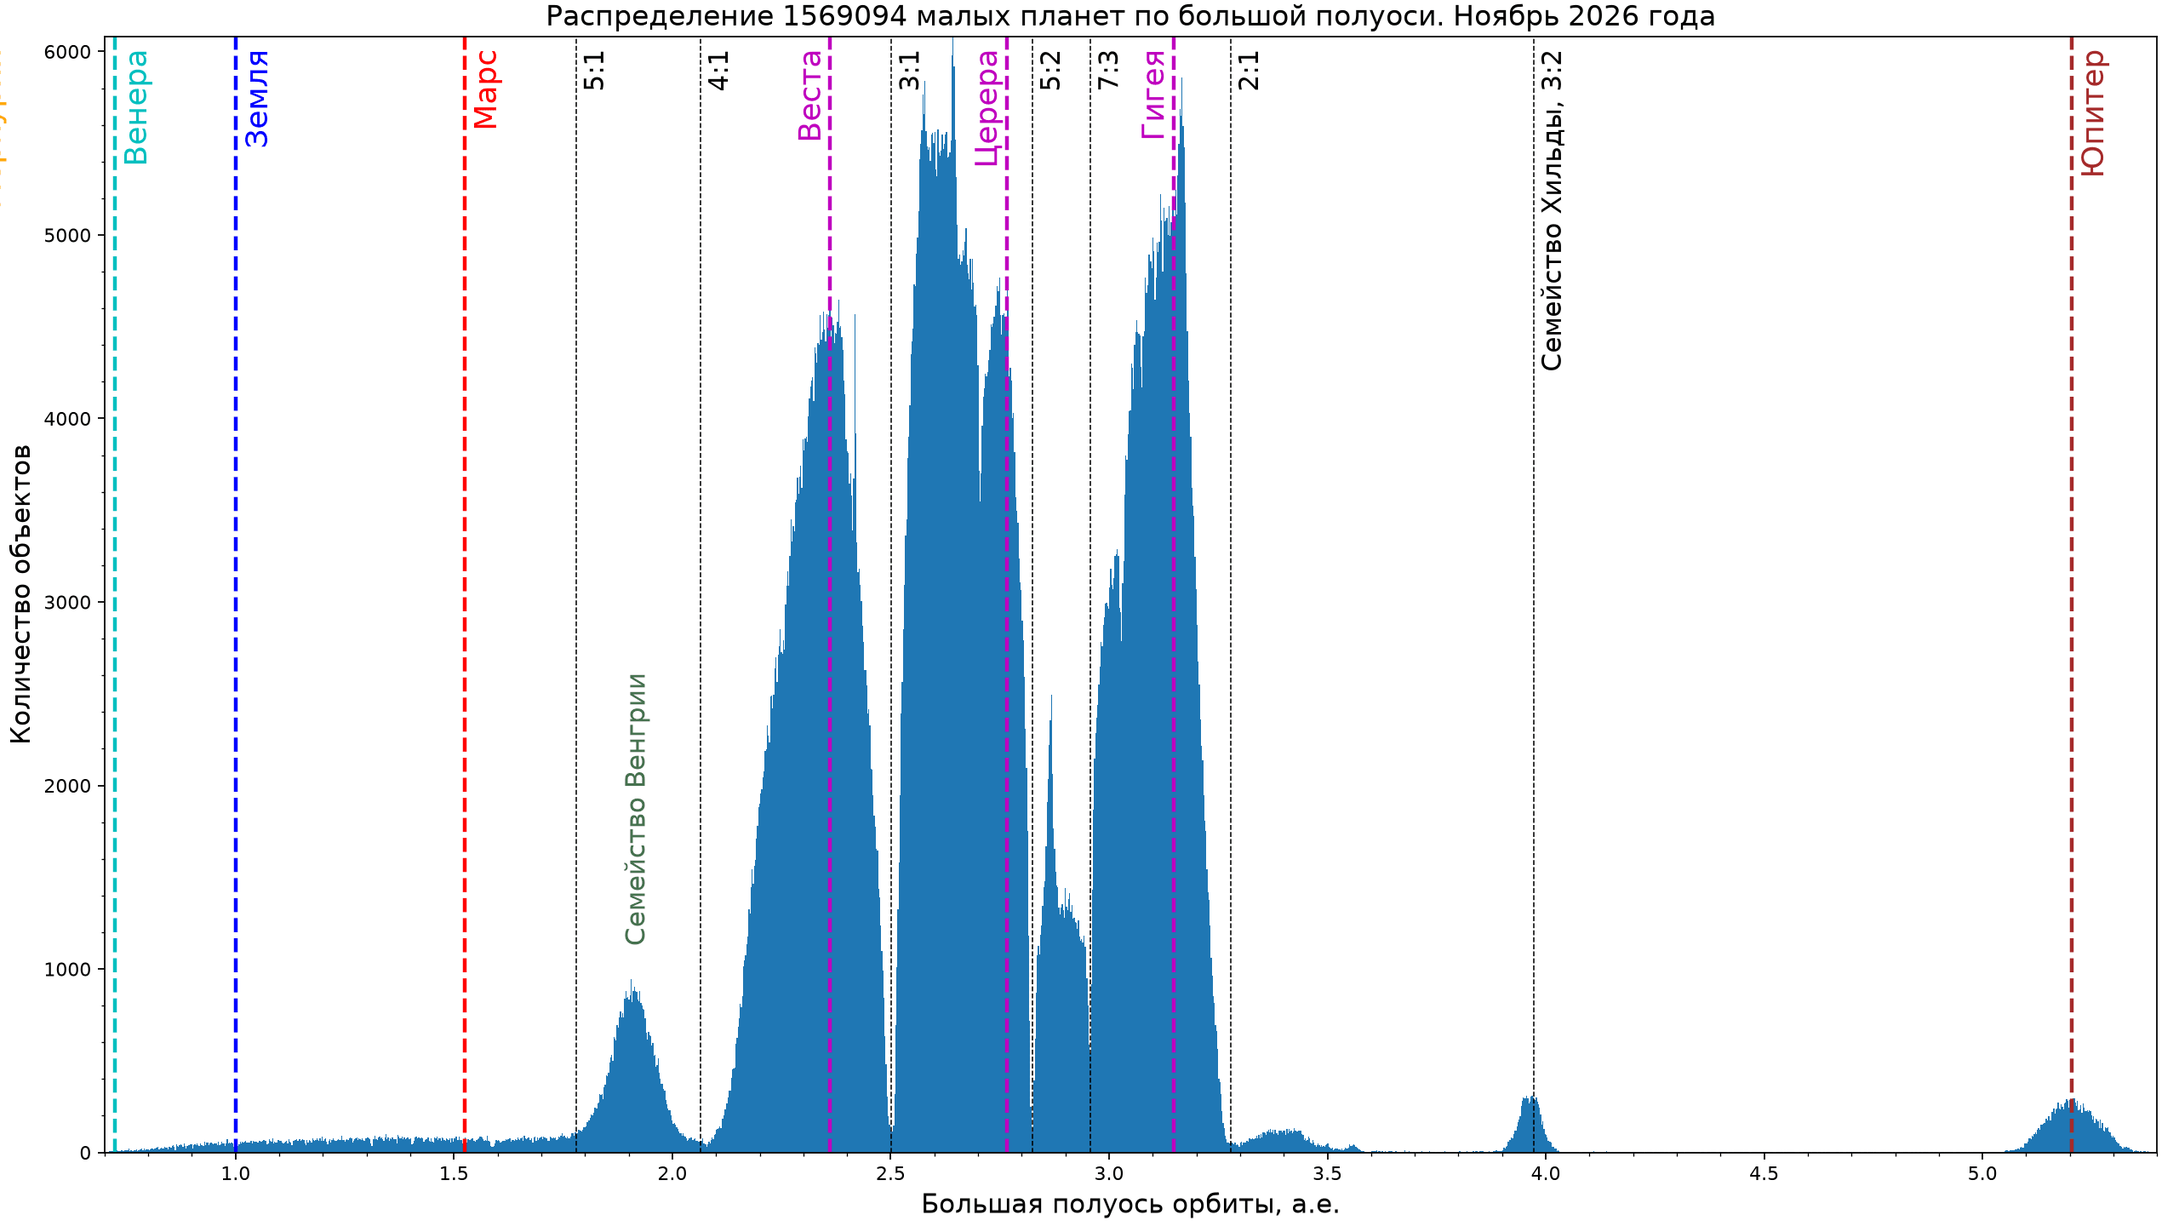
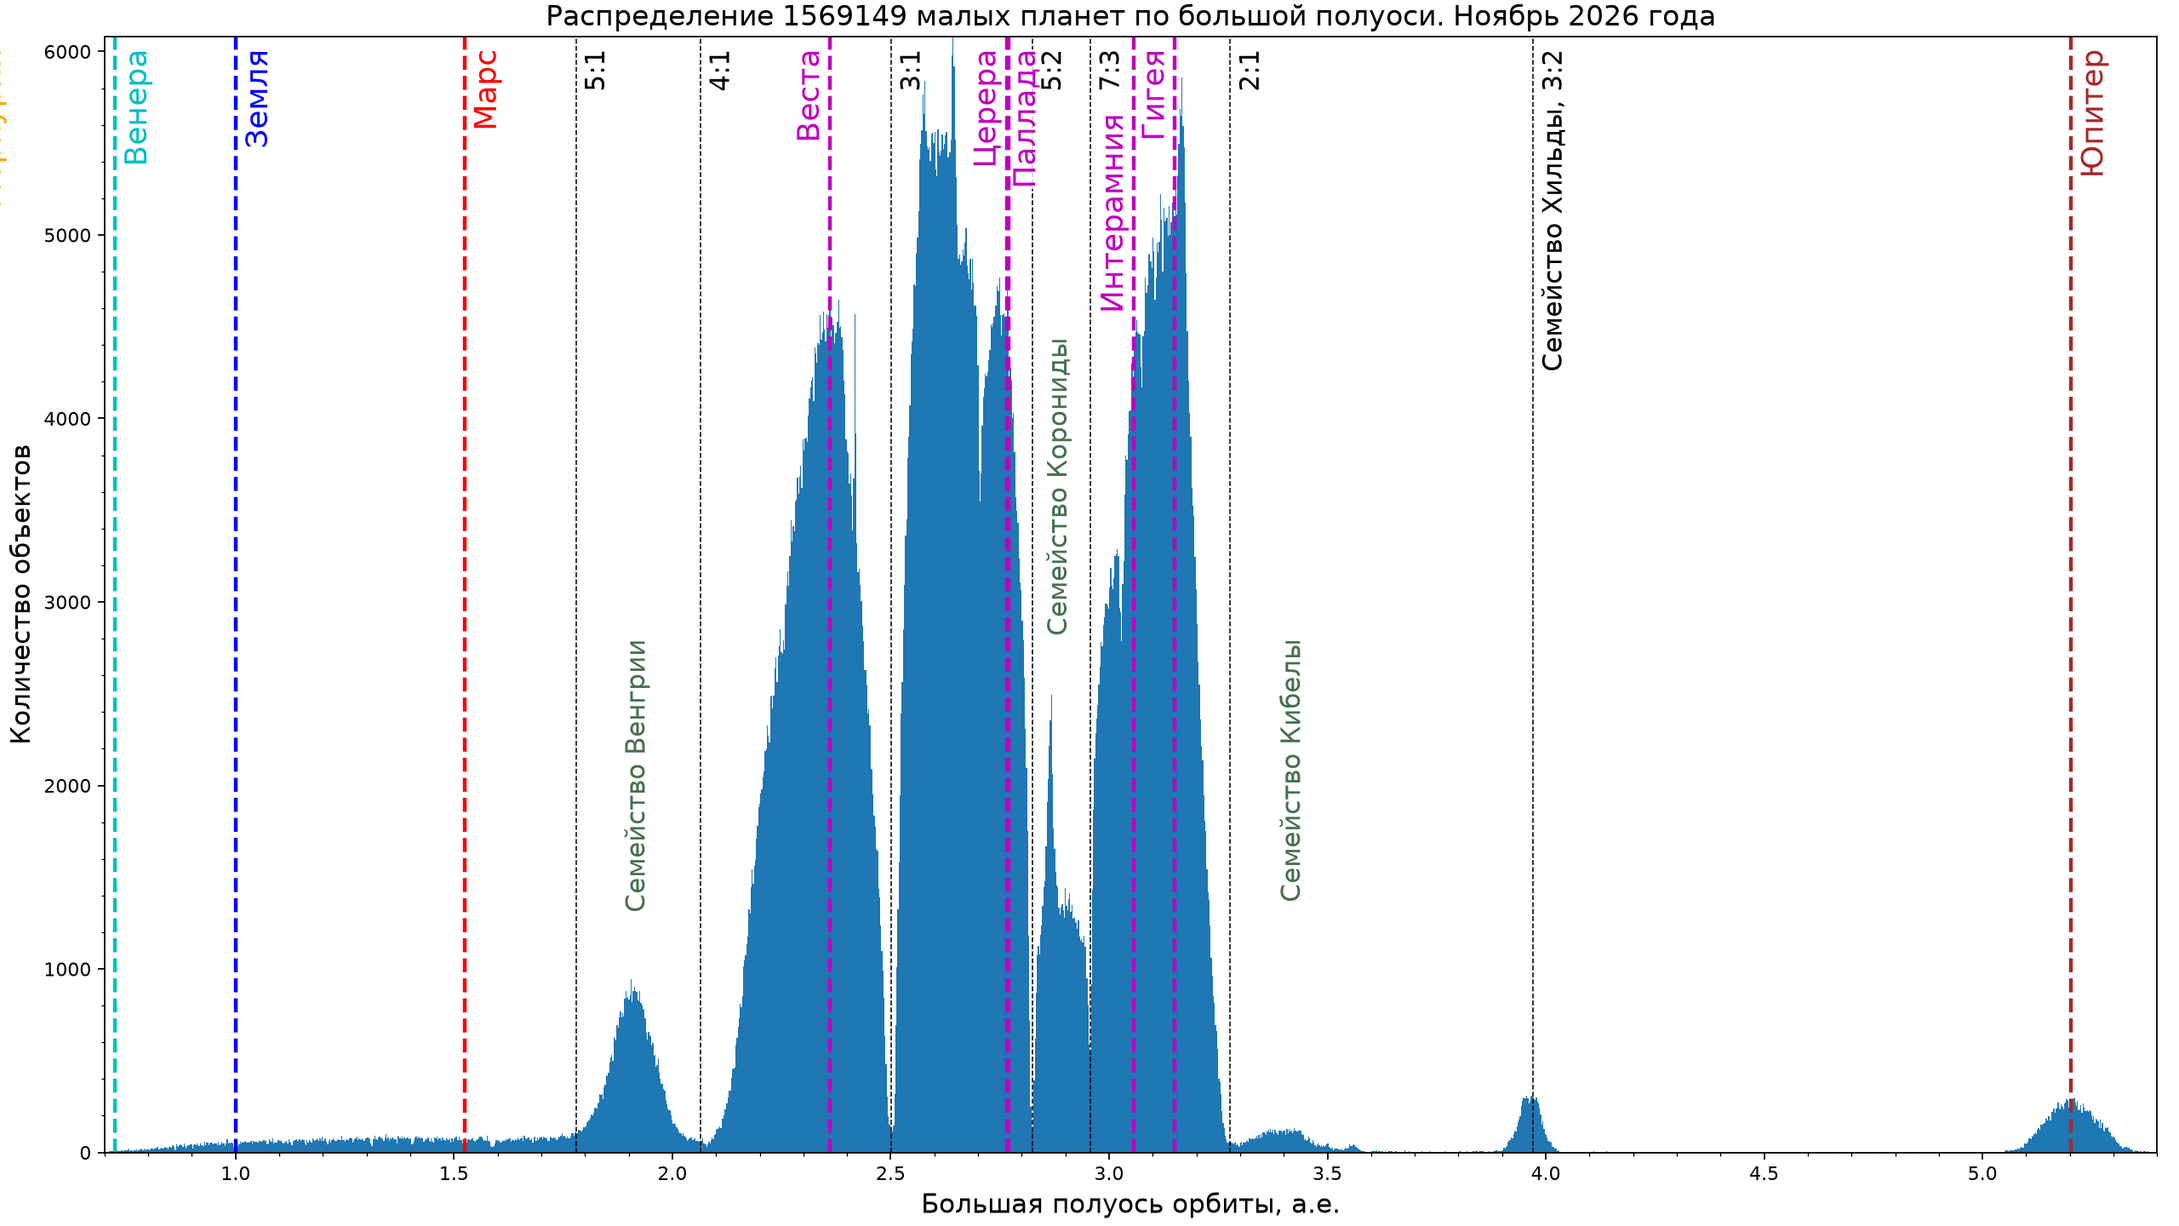
update scripts & plots

diff --git a/src/astrodata/solarsystem/plot_sso_supply.py b/src/astrodata/solarsystem/plot_sso_supply.py
@@ -1,4 +1,16 @@
-"""Plot parameters of Solar system bodies"""
+"""Plot parameters of Solar system bodies.
+Data source for planets:
+Keplerian elements, with respect to the mean ecliptic and equinox of J2000,
+valid for the time-interval 1800 AD - 2050 AD:
+https://ssd.jpl.nasa.gov/planets/approx_pos.html
+NOTE on Neptune resonance factors:
+Instead of a single heliocentric semi-major axis (30.07 au), individual effective
+axes (30.125 to 30.210 au) are used based on analytical celestial mechanics.
+This accounts for the barycentric shift of the Solar System (caused by Jupiter/Saturn
+pulling the Sun) and phase space asymmetry of stable libration zones.
+At extreme distances (2:5 resonance), fast barycentric perturbations average out,
+returning the effective axis back to the pure heliocentric value of 30.07 au.
+"""
 
 from dataclasses import dataclass
 from typing import Final
@@ -7,85 +19,143 @@ import matplotlib.pyplot as plt
 
 Y_OFFSET_MULTIPLIER = 0.011
 
-@dataclass(frozen=True, slots=True)
+@dataclass(slots=True)  # frozen=True,
 class BodyParams:
     name: str
     runame: str
-    a: float
-    e: float
-    i: float
+    a: float = 0.0
+    e: float = 0.0
+    i: float = 0.0
     color: str = "grey"
     line_style: str = "--"
     line_width: float = 2
     is_planet: bool = True
+    mpc_id: str = ""
 
 PL: Final[dict[str, BodyParams]] = {
-    "me": BodyParams("Mercury", "Меркурий", 0.387, 0.206, 7, color="orange"),
-    "ve": BodyParams("Venus", "Венера", 0.723, 0.007, 3.4, color="c"),
-    "ea": BodyParams("Earth", "Земля", 1.0, 0.016, 0, color="b"),
-    "ma": BodyParams("Mars", "Марс", 1.524, 0.093, 1.85, color="r"),
-    "ju": BodyParams("Jupiter", "Юпитер", 5.204, 0.049, 1.3, color="brown"),
-    "sa": BodyParams("Saturn", "Сатурн", 9.583, 0.057, 2.49, color="y"),
-    "ur": BodyParams("Uranus", "Уран", 19.219, 0.046, 0.77, color="c"),
-    "ne": BodyParams("Neptune", "Нептун", 30.07, 0.01, 1.77, color="#00b"),
-    "ce": BodyParams("Ceres", "Церера", 2.7656, 0.07958, 10.5879, color="m"),
-    "ves": BodyParams("Vesta", "Веста", 2.3614, 0.0901, 7.14395, color="m", is_planet=False),
-    "hy": BodyParams("Hygiea", "Гигея", 3.14759, 0.108224, 3.83294, color="m", is_planet=False),
-    "pl": BodyParams("Pluto", "Плутон, 2:3", 39.33986, 0.24707, 17.1758, color="#808"),
-    "ha": BodyParams("Haumea", "Хаумеа", 43.006, 0.1958, 28.208, color="#808"),
-    "mk": BodyParams("Makemake", "Макемаке", 45.4497, 0.1619, 29.0339, color="#808"),
-    "er": BodyParams("Eris", "Эрида", 67.997, 0.43697, 43.869, color="#808"),
-    "go": BodyParams("Gonggong", "Гун-гун", 66.8951, 0.5032, 30.8664, line_width=1.5, is_planet=False),
-    "qu": BodyParams("Quaoar", "Квавар", 43.1629, 0.03664, 7.991, line_width=1.5, is_planet=False),
-    "or": BodyParams("Orcus", "Орк", 39.2892, 0.22314, 20.5555, line_width=1.5, is_planet=False),
-    "sal": BodyParams("Salacia", "Салация", 42.1154, 0.1034, 23.9271, line_width=1.5, is_planet=False),
-    "se": BodyParams("Sedna", "Седна", 506.0, 0.85, 11.93, line_width=1.5, is_planet=False),
+    "me": BodyParams("Mercury", "Меркурий", a=0.3871, e=0.2056, i=7.0050, color="orange"),
+    "ve": BodyParams("Venus", "Венера", a=0.7233, e=0.0068, i=3.3947, color="c"),
+    "ea": BodyParams("Earth", "Земля", a=1.00, e=0.0167, i=-0.000015, color="b"),
+    "ma": BodyParams("Mars", "Марс", a=1.5237, e=0.0934, i=1.8497, color="r"),
+    "ju": BodyParams("Jupiter", "Юпитер", a=5.2029, e=0.0484, i=1.3044, color="brown"),
+    "sa": BodyParams("Saturn", "Сатурн", a=9.5367, e=0.0539, i=2.4860, color="y"),
+    "ur": BodyParams("Uranus", "Уран", a=19.1892, e=0.0473, i=0.7726, color="c"),
+    "ne": BodyParams("Neptune", "Нептун", a=30.0699, e=0.0086, i=1.7700, color="#00b"),
+    "ce": BodyParams("Ceres", "Церера", mpc_id="(1) Ceres", color="m"),
+    "ves": BodyParams("Vesta", "Веста", mpc_id="(4) Vesta", color="m", is_planet=False),
+    "pa": BodyParams("Pallas", "Паллада", mpc_id="(2) Pallas", color="m", is_planet=False),
+    "hy": BodyParams("Hygiea", "Гигея", mpc_id="(10) Hygiea", color="m", is_planet=False),
+    "in": BodyParams("Interamnia", "Интерамния", mpc_id="(704) Interamnia", color="m", is_planet=False),
+    "pl": BodyParams("Pluto", "Плутон", a=39.4817, e=0.2488, i=17.1418, mpc_id="(134340) Pluto", color="#808"),
+    "ix": BodyParams("Ixion", "Иксион", mpc_id="(28978) Ixion", line_width=1.5, is_planet=False),
+    "or": BodyParams("Orcus", "Орк", mpc_id="(90482) Orcus", line_width=1.5, is_planet=False),
+    "ac": BodyParams("Achlys", "Ахлис", mpc_id="(208996) Achlys", line_width=1.5, is_planet=False),
+    "man": BodyParams("Máni", "Мани", mpc_id="(307261) Mani", line_width=1.5, is_planet=False),
+    "sal": BodyParams("Salacia", "Салация", mpc_id="(120347) Salacia", line_width=1.5, is_planet=False),
+    "ha": BodyParams("Haumea", "Хаумеа", mpc_id="(136108) Haumea", color="#808"),
+    "qu": BodyParams("Quaoar", "Квавар", mpc_id="(50000) Quaoar", line_width=1.5, is_planet=False),
+    "mk": BodyParams("Makemake", "Макемаке", mpc_id="(136472) Makemake", color="#808"),
+    "va": BodyParams("Varda", "Варда", mpc_id="(174567) Varda", line_width=1.5, is_planet=False),
+    "ay": BodyParams("Aya", "Айа", mpc_id="(55565) Aya", line_width=1.5, is_planet=False),
+    "ch": BodyParams("Chiminigagua", "Чиминигагуа", mpc_id="(532037) Chiminigagua", line_width=1.5, is_planet=False),
+    "go": BodyParams("Gonggong", "Гун-гун", mpc_id="(225088) Gonggong", line_width=1.5, is_planet=False),
+    "er": BodyParams("Eris", "Эрида", mpc_id="(136199) Eris", color="#808"),
+    "se": BodyParams("Sedna", "Седна", mpc_id="(90377) Sedna", line_width=1.5, is_planet=False),
 }
 
 
-def plot_vert_pla(b1: float, b2: float, show_inner_asteroids: bool = True) -> None:
+def plot_vert_pla(ax: plt.Axes, b1: float, b2: float, show_inner_asteroids: bool = True) -> None:
     """Plots vertical lines and text descriptions for planets and large SSOs."""
     y_text_top = b2 - (b2 * Y_OFFSET_MULTIPLIER)
 
     for key, body in PL.items():
-        if key in {"ce", "ves", "hy"} and not show_inner_asteroids:
+        y_text_offset = 0
+        if key in {"ce", "ves", "pa", "hy", "in"} and not show_inner_asteroids:
             continue
 
-        plt.plot([body.a, body.a], [b1, b2], c=body.color, ls=body.line_style, lw=body.line_width)
+        ax.plot([body.a, body.a], [b1, b2], c=body.color, ls=body.line_style, lw=body.line_width)
 
         x_offset = 0.02
-        if key in {"go", "qu", "or", "sal", "se"}:
-            x_offset = -0.72
-        elif key in {"ves", "ce", "hy"}:
-            x_offset = -0.075
+        if key in {"go", "qu", "or", "sal", "se", "ay", "ch", "man", "va", "ac"}:
+            x_offset = -0.65
+        elif key in {"ves", "ce", "pa", "hy", "in"}:
+            x_offset = -0.078
         elif body.is_planet and body.a < 10:
             x_offset = 0.02
         elif (body.is_planet and body.a > 20) or not body.is_planet:
             x_offset = 0.15
 
-        text_color = "black" if body.color == "#808" else body.color
-
-        plt.text(
-            body.a + x_offset, y_text_top, body.runame,
-            c=text_color, rotation="vertical", va="top", fontsize=15 if body.line_width == 1 else 16
-        )
+        if body.name not in ("Ixion", "Achlys", ):
+            if body.name == "Pallas":
+                x_offset = 0.009
+            elif body.name == "Interamnia":
+                y_text_offset = 350
+            elif body.name == "Pluto":
+                y_text_offset = 4.25
+            ax.text(
+                body.a + x_offset,
+                y_text_top - y_text_offset,
+                body.runame,
+                c=body.color,
+                rotation="vertical",
+                va="top",
+                fontsize=15 if body.line_width == 1 else 16,
+                bbox={
+                    "facecolor": "white",
+                    "alpha": 0.8,
+                    "edgecolor": "none",
+                    "pad": 0.0
+                }
+            )
+    ax.text(
+        PL["ix"].a - 0.68, y_text_top - 13, PL["ix"].runame,
+        c=PL["ix"].color, rotation="vertical", va="top", fontsize=15 if PL["ix"].line_width == 1 else 16
+    )
+    ax.text(
+        PL["ac"].a + 0.05, y_text_top - 13, PL["ac"].runame,
+        c=PL["ac"].color, rotation="vertical", va="top", fontsize=15 if PL["ac"].line_width == 1 else 16
+    )
 
     if show_inner_asteroids:
-        plt.text(1.89, b2 * 0.43, "Семейство Венгрии", c="#45714E", rotation="vertical", va="top", fontsize=14)
+        ax.text(1.89, b2 * 0.46, "Семейство Венгрии", c="#45714E", rotation="vertical", va="top", fontsize=14)
+        ax.text(2.856, b2 * 0.73, "Семейство Корониды", c="#45714E", rotation="vertical", va="top", fontsize=14)
+        ax.text(3.39, b2 * 0.46, "Семейство Кибелы", c="#45714E", rotation="vertical", va="top", fontsize=14)
 
-def plot_vert_resonances(b1: float, b2: float, lw: float = 0.7, plot_tno: bool = False) -> None:
+
+def plot_vert_resonances(ax: plt.Axes, b1: float, b2: float, lw: float = 0.7, plot_tno: bool = False) -> None:
     """Plots Kirkwood gaps and planetary resonances."""
     y_text_top = b2 - (b2 * Y_OFFSET_MULTIPLIER)
 
-    resonances = [
-        (1.78, "5:1"), (2.065, "4:1"), (2.502, "3:1"),
-        (2.825, "5:2"), (2.958, "7:3"), (3.279, "2:1"),
-        (3.972, "Семейство Хильды, 3:2")
+    A_JUPITER: Final[float] = 5.202887
+    A_NEPTUNE: Final[float] = 30.069923
+    # A_NEPTUNE_EFF: Final[float] = 30.195
+
+    resonances_jupiter = [
+        (A_JUPITER * (5/1)**(-2/3), "5:1"),
+        (A_JUPITER * (4/1)**(-2/3), "4:1"),
+        (A_JUPITER * (3/1)**(-2/3), "3:1"),
+        (A_JUPITER * (5/2)**(-2/3), "5:2"),
+        (A_JUPITER * (7/3)**(-2/3), "7:3"),
+        (A_JUPITER * (2/1)**(-2/3), "2:1"),
+        (A_JUPITER * (3/2)**(-2/3), "Семейство Хильды, 3:2"),
     ]
+
+    # Индивидуальный учет либрации и барицентрического сдвига
+    # NOTE: Effective Neptune axes account for the barycentric shift of the Sun
+    # and phase space asymmetry of stable libration zones (Murray & Dermott, "SSD").
+    resonances_neptune = [
+        (30.125 * (3/4)**(-2/3), "3:4"),
+        (30.155 * (2/3)**(-2/3), "2:3"),  # 39.5142, 2:3 (Плутино)
+        (30.210 * (4/7)**(-2/3), "4:7"),
+        (30.165 * (1/2)**(-2/3), "Тутино, 1:2"),
+        (A_NEPTUNE * (2/5)**(-2/3), "2:5"),  # Pure heliocentric value
+    ]
+
+    resonances = resonances_jupiter
     if plot_tno:
-        resonances.extend([(36.5, "3:4"), (43.92, "4:7"), (47.8, "1:2"), (55.4, "2:5")])
+        resonances = resonances_neptune
 
     for a, name in resonances:
-        x_offset = 0.15 if a > 20 else 0.016
-        plt.plot([a, a], [b1, b2], "--k", lw=lw)
-        plt.text(a + x_offset, y_text_top, name, rotation="vertical", va="top", fontsize=14)
+        x_offset = 0.15 if a > 20 else 0.019
+        ax.plot([a, a], [b1, b2], "--k", lw=lw)
+        ax.text(a + x_offset, y_text_top, name, rotation="vertical", va="top", fontsize=14)

diff --git a/src/astrodata/solarsystem/plot_mpcorb_hist.py b/src/astrodata/solarsystem/plot_mpcorb_hist.py
@@ -46,23 +46,12 @@ class MPCOrbParser:
     )
 
     def __init__(self, use_columns: list[str]):
-        """
-        Инициализация парсера под конкретный набор колонок.
-        Динамически собирает Си-строку формата для struct.unpack.
-        """
         self.use_columns = use_columns
 
-        # Генерируем маску типов данных только для запрашиваемых колонок
-        self.dtype = np.dtype(
-            [
-                (name, npy_type)
-                for name, _, npy_type in self.FULL_LAYOUT
-                if name in use_columns
-            ]
-        )
+        self.dtype = np.dtype([
+            (name, npy_type) for name, _, npy_type in self.FULL_LAYOUT if name in use_columns
+        ])
 
-        # Строим форматную строку для struct
-        # "s" - читать байты, "x" - пропустить байты (skip)
         fmt_parts = []
         for name, width, _ in self.FULL_LAYOUT:
             if name in use_columns:
@@ -73,32 +62,40 @@ class MPCOrbParser:
         self._struct_unpacker = struct.Struct("".join(fmt_parts)).unpack_from
 
     def parse(self, file_path: Path) -> np.ndarray:
-        """Проход по файлу. Парсит только выбранные столбцы."""
+        """Полный проход по файлу с динамическим обновлением орбит крупных ТНО."""
+        from plot_sso_supply import PL  # Импортируем наш глобальный словарь планет
+
+        # Создаем карту поиска: ищем точное совпадение по строке названия (например, "(1) Ceres")
+        mpc_lookup = {body.mpc_id: body for body in PL.values() if body.mpc_id}
 
         def _line_generator() -> Generator[tuple, None, None]:
             with gzip.open(file_path, "rb") as f:
-                # Пропускаем первые 43 строки заголовка
                 for _ in range(43):
                     f.readline()
 
                 for line in f:
-                    # Игнорируем пустые строки и комментарии
                     if not line.strip() or line.startswith(b"#"):
                         continue
                     try:
-                        # Распаковка выбранных столбцов в байты
+                        # 1. Быстрый Си-парсинг только тех колонок, которые запросил пользователь
                         raw_parts = self._struct_unpacker(line)
-                        # Декодируем и очищаем от пробелов только то, что запрошено
-                        yield tuple(
-                            part.decode("utf-8", errors="ignore").strip()
-                            for part in raw_parts
-                        )
-                    except (struct.error, UnicodeDecodeError):
+                        decoded = [part.decode('utf-8', errors='ignore').strip() for part in raw_parts]
+
+                        # 2. Динамическое обновление ТНО через прямой срез байт строки
+                        # Поле Desig по спецификации MPC находится в байтах 166:194
+                        line_desig = line[166:194].decode('utf-8', errors='ignore').strip()
+
+                        if line_desig in mpc_lookup:
+                            # Поле 'a' (большая полуось) всегда находится в байтах 91:105
+                            line_a = float(line[91:105].decode('utf-8', errors='ignore').strip())
+                            # Перезаписываем полуось в объекте конфигурации
+                            mpc_lookup[line_desig].a = line_a
+
+                        yield tuple(decoded)
+                    except (struct.error, ValueError, UnicodeDecodeError):
                         continue
 
-        # fromiter собирает массив NumPy напрямую из Си-генератора
         return np.fromiter(_line_generator(), dtype=self.dtype)
-
 
 parser = ArgumentParser(description="Graph plotter script with distribution of Solar system objects")
 parser.add_argument("-t", "--translate", action="store_true",
@@ -144,8 +141,8 @@ for a1, a2, b1, b2, bins, xmal, plot_tno, objs_nam in plot_configs:
 
     plt.hist(filtered_data["a"], bins=bins)
 
-    plot_vert_pla(b1, b2, show_inner_asteroids=not plot_tno)
-    plot_vert_resonances(b1, b2, plot_tno=plot_tno)
+    plot_vert_pla(ax, b1, b2, show_inner_asteroids=not plot_tno)
+    plot_vert_resonances(ax, b1, b2, plot_tno=plot_tno)
 
     plt.xlim(a1, a2)
     plt.ylim(b1, b2)
